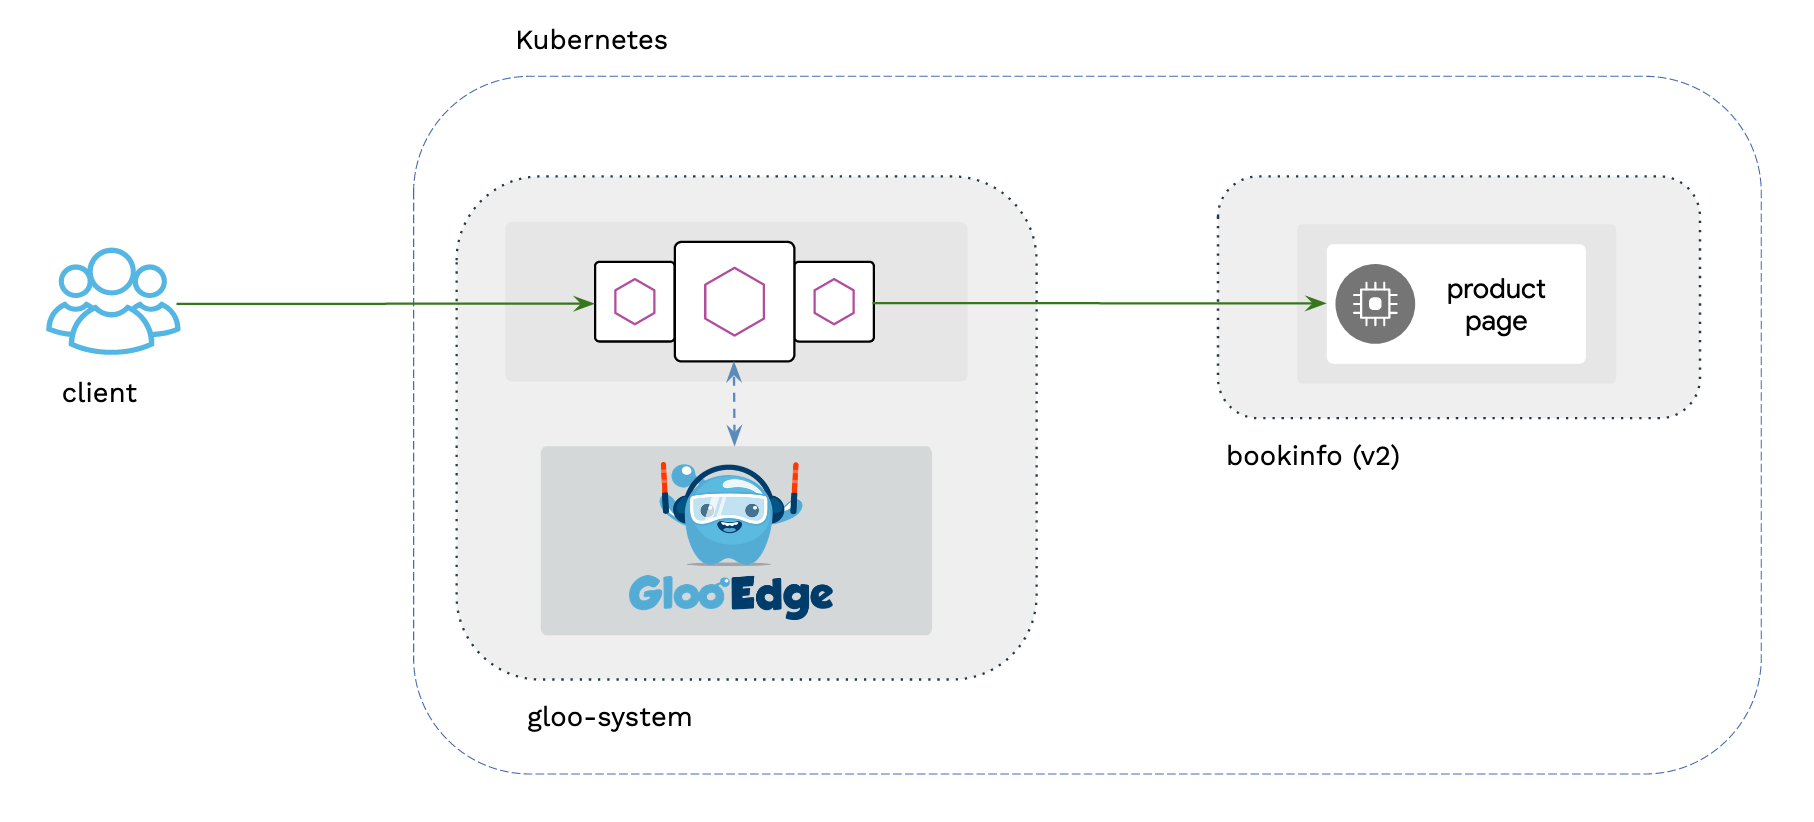
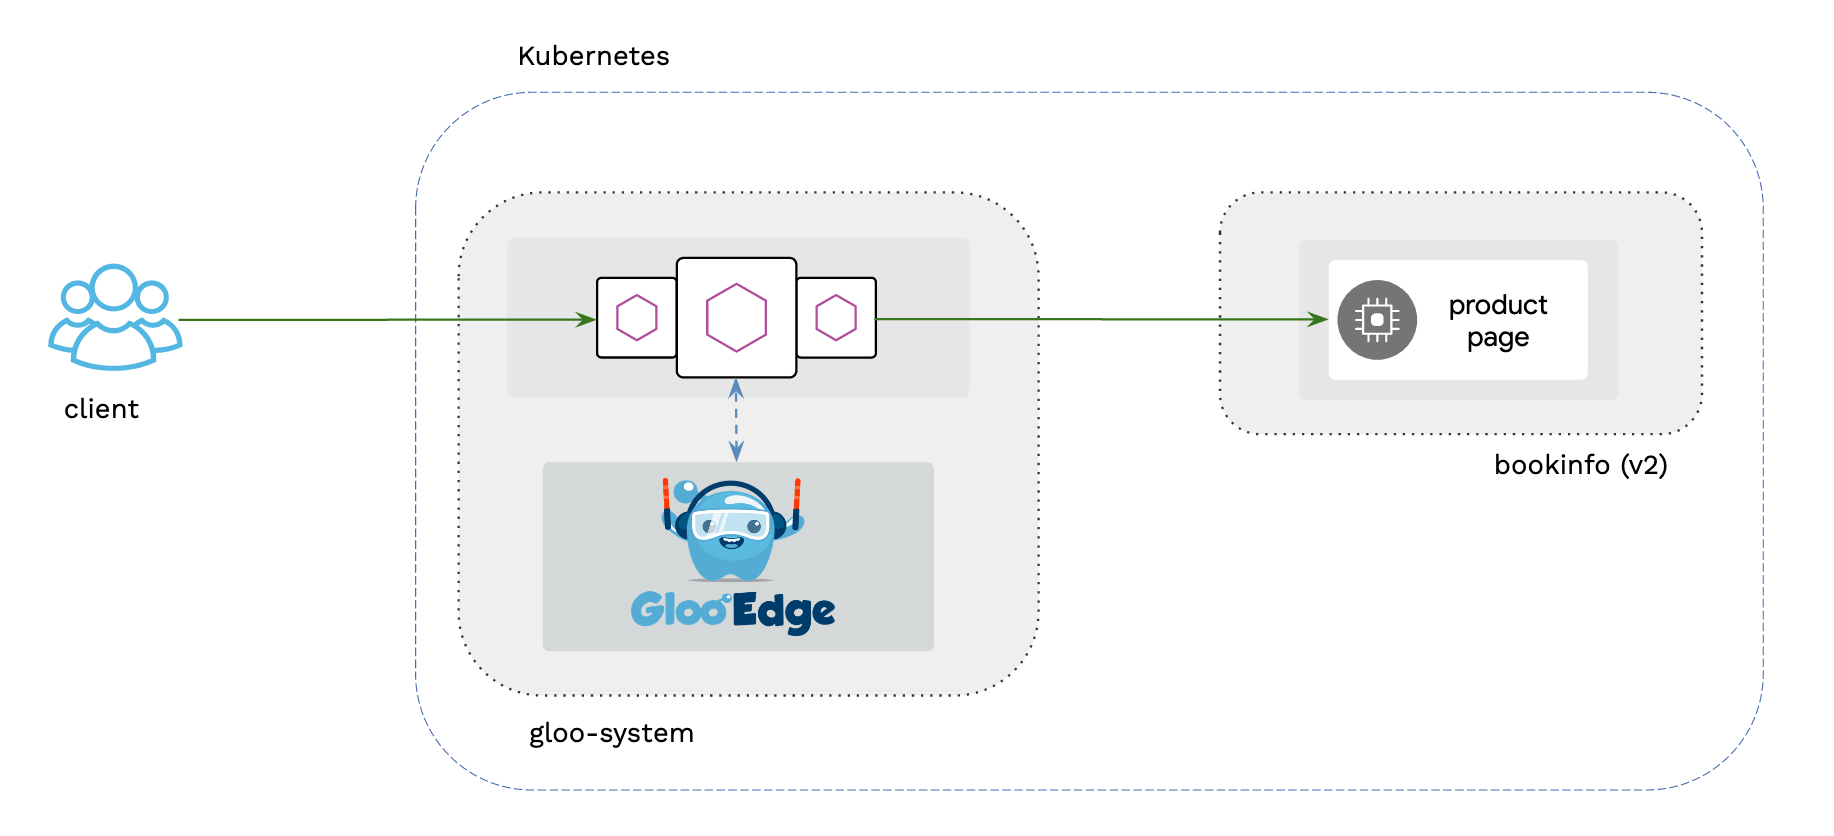
cleanup captions

diff --git a/gloo-edge/gloo-edge/README.md b/gloo-edge/gloo-edge/README.md
@@ -80,29 +80,7 @@ kubectl -n bookinfo  apply -f https://raw.githubusercontent.com/istio/istio/1.7.
 kubectl delete deployment reviews-v1 reviews-v3 -n bookinfo
 ```
  
-```
-                 +----------------------------------------------------------------------------+
-                 |                                                                            |
-                 |                                         +---------------+                  |
-                 |                                         |-------+       |                  |
-                 +-------+                                 ||Product       |                  |
-+-Client-------->+  Envoy+-------------------------------->-|Page  |       |                  |
-                 +---+---+                                 +-------+       |                  |
-                 |   |                                     |Bookinfo       |                  |
-                 |   |                                     +v2             |                  |
-                 |   |                                     +---------------+                  |
-                 |   |                                                                        |
-                 |   |                                                                        |
-                 |   |                                                                        |
-                 | +-v------------+                                                           |
-                 | |  Gloo Edge   |                                                           |
-                 | |              |                                                           |
-                 | +--------------+                                                           |
-                 |                                                                            |
-                 |Kubernetes                                                                  |
-                 +----------------------------------------------------------------------------+
-```
-![Lab](images/bookinfo-v2.png)
+![Gloo Edge with Bookinfo](images/bookinfo-v2.png)
 
 The bookinfo app has 3 versions of a microservice called reviews.  We will keep only the version 2 of the reviews microservice for this step and will add the other versions later.  An easy way to distinguish among the different versions in the web interface is to look at the stars: v1 displays no stars in the reviews, v2 displays black stars, and v3 displays red stars.
 
@@ -183,29 +161,7 @@ kubectl -n bookinfo-beta apply -f https://raw.githubusercontent.com/istio/istio/
 kubectl delete deployment reviews-v1 reviews-v2 -n bookinfo-beta
 ```
 
-```
-                 +----------------------------------------------------------------------------+
-                 |                                                                            |
-                 |                                         +---------------+                  |
-                 |                                         |-------+       |                  |
-                 +-------+            50%                  ||Product       |                  |
-+-Client-------->+  Envoy+-------------------------------->-|Page  |       |                  |
-                 |       |            50%                  +-------+       |                  |
-                 |       +----------------------------+    |Bookinfo       |                  |
-                 +---+---+                            |    +v2             |                  |
-                 |   |                                |    +---------------+                  |
-                 |   |                                |                                       |
-                 |   |                                |    +---------------+                  |
-                 |   |                                |    |-------+       |                  |
-                 | +-v------------+                   +--->-|Product       |                  |
-                 | |  Gloo Edge   |                        ||Page  |       |                  |
-                 | |              |                        +-------+       |                  |
-                 | +--------------+                        |Bookinfo beta  |                  |
-                 |                                         +v3             |                  |
-                 |Kubernetes                               |---------------+                  |
-                 +----------------------------------------------------------------------------+
-```
-![Lab](images/bookinfo-v3.png)
+![Weighted routing](images/bookinfo-v3.png)
 
 Verify that the Upstream for the beta application was created, using the following command: 
 
